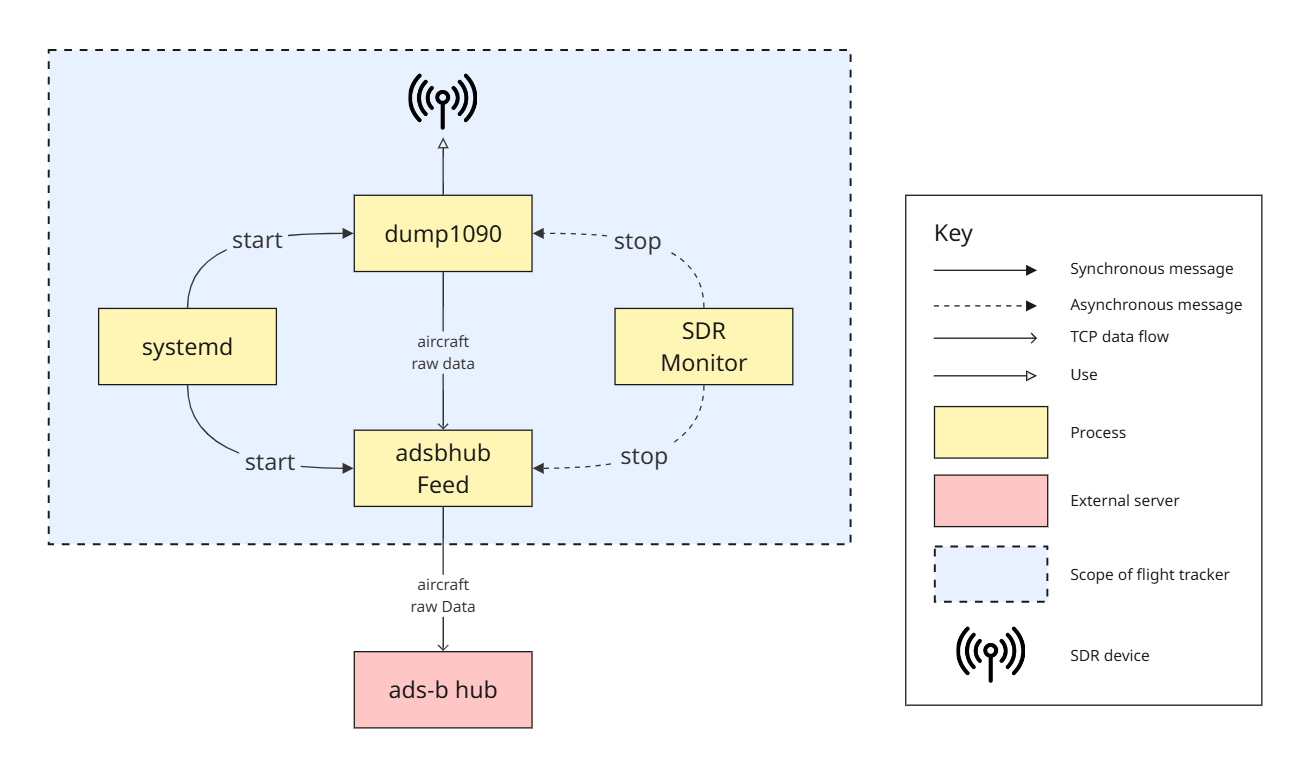
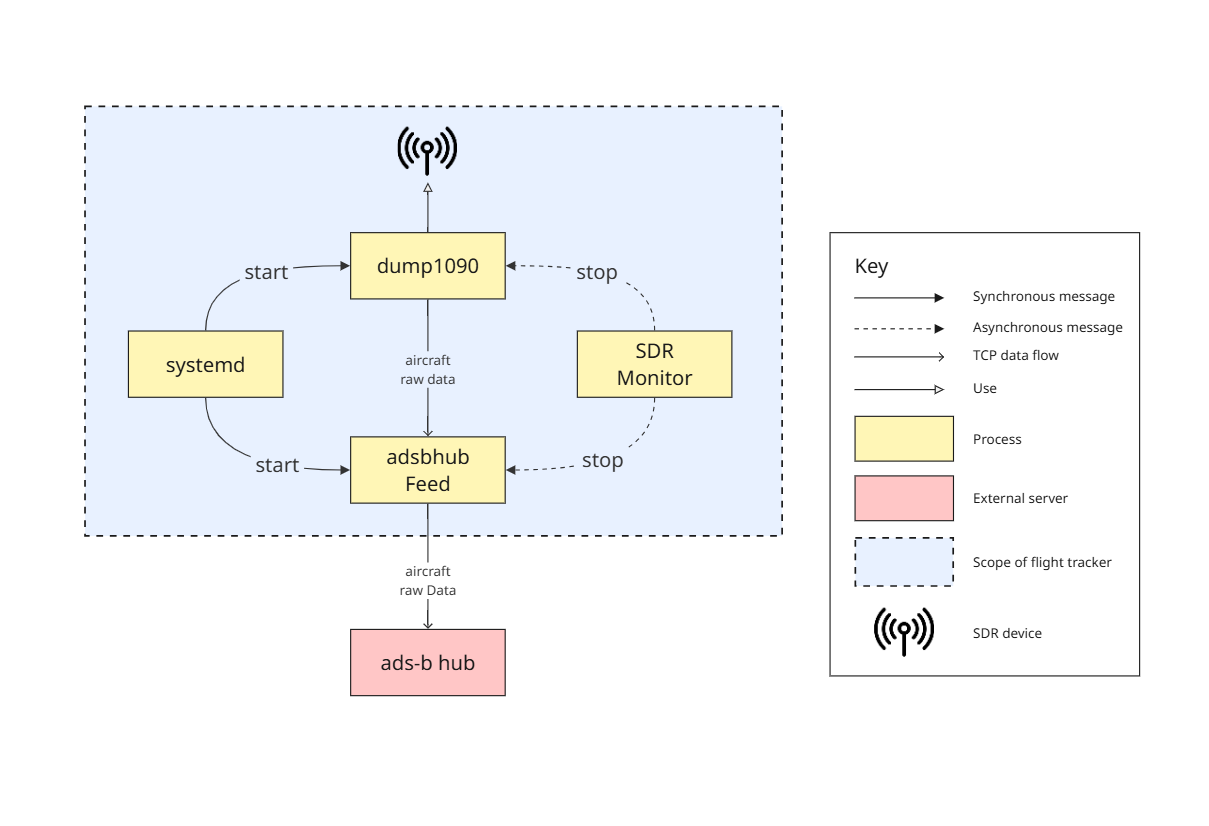
Fix flight tracker primary diagram image

diff --git a/architecture/resilient-sdr-monitoring-cnc-view.md b/architecture/resilient-sdr-monitoring-cnc-view.md
@@ -1,4 +1,4 @@
-# Resilient SDR Monitoring and Recovery View  
+# Resilient SDR Monitoring and Recovery C&C View  
 This view documents the runtime structure of the Raspberry Pi-based Flight Tracker system. It focuses on how the system ensures continuous SDR-based flight data capture and recovery from device-level faults using a polling-based monitoring strategy.
 
 ![Runtime View - Resilient SDR Monitoring](../images/flight-tracker-primary.png)
